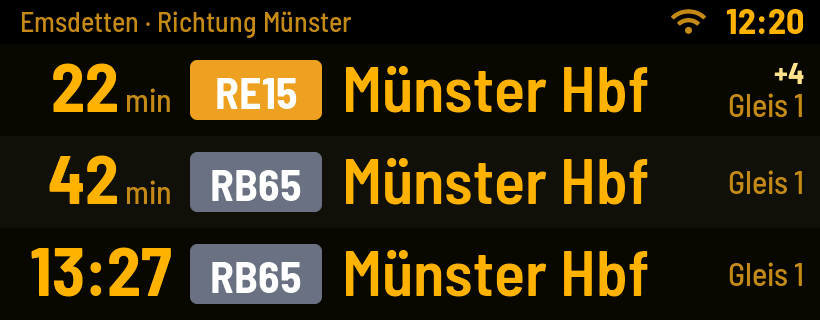
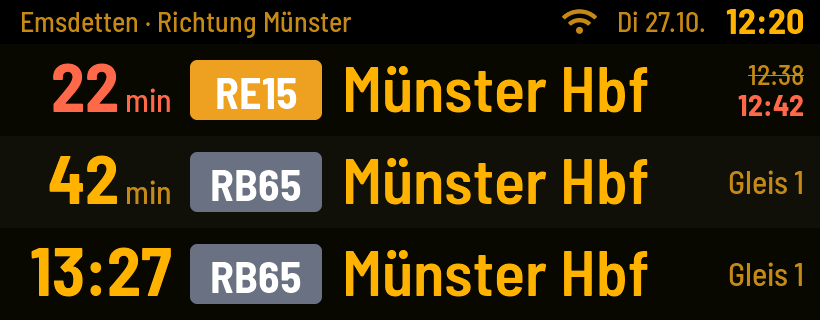
Display: Datum in der Kopfzeile, Haltestellenname wählbar, Verspätung deutlicher
- Kopfzeile: kurzes Datum neben der Uhr; Name groß (66 px Kopfzeile),
  normal (44 px) oder ausgeblendet (36 px, langes Datum links).
  Bei zwei Haltestellen bleibt der Name immer sichtbar.
- Verspätung ab +2 min (kLateMinutes): Minuten rot, rechts Planzeit
  durchgestrichen über der neuen Zeit statt „+4“ – das wurde als
  Aufschlag gelesen. Das Gleis entfällt in dieser Zeile (Platz).
- Simulator: Szenarien kopfzeile-gross/-aus, Screens neu gerendert.

Claude-Session: https://claude.ai/code/session_01Dcfs2LZYxWRDdZhDmCxRDe

Changed region(s): [[0.061, 0.1875, 0.2134, 0.375], [0.8841, 0.1875, 1.0, 0.375], [0.6707, 0.0312, 0.8841, 0.125]]

diff --git a/src/ui/ui.cpp b/src/ui/ui.cpp
@@ -21,11 +21,14 @@ using abf::NoteKind;
 using abf::RowView;
 using abf::Screen;
 using abf::SectionView;
+using abf::StopNameStyle;
 using abf::View;
 using abf::WifiMark;
 
 constexpr int32_t kMargin = 16;
 constexpr int32_t kHeader = 44;       // Kopfzeile Vollbild
+constexpr int32_t kHeaderLarge = 66;  // mit großem Haltestellennamen
+constexpr int32_t kHeaderBare = 36;   // ohne Haltestellennamen, nur Datum und Uhr
 constexpr int32_t kSplitHeader = 32;  // Kopfzeile je Haltestelle (geteilt)
 constexpr int32_t kBanner = 40;       // Hinweisleiste unten
 constexpr int32_t kRight = kWidth - kMargin;
@@ -37,7 +40,8 @@ struct Palette {
   uint32_t rowAlt;
   uint32_t text;
   uint32_t dim;        // Nebentexte
-  uint32_t accent;     // Verspätung, Symbole, Leiste
+  uint32_t accent;     // Symbole, Leiste
+  uint32_t late;       // Verspätung: Minuten und neue Abfahrtszeit
   uint32_t cancel;     // „fällt aus“
   uint32_t struck;     // durchgestrichene Abfahrt
   uint32_t bannerText;
@@ -47,9 +51,9 @@ struct Palette {
 
 // Dunkel: Nachtblau wie die Mockups. Nacht: Bernstein auf Schwarz, kaum Blauanteil.
 constexpr Palette kDark = {0x0b1a2e, 0x050f1e, 0x0b1a2e, 0x12243c, 0xf2f4f7, 0x9fb1c9,
-                           0xffb020, 0xff7a6b, 0x8193ab, 0x1a1306, 0x1e3858, 0xffffff};
+                           0xffb020, 0xff5a4a, 0xff7a6b, 0x8193ab, 0x1a1306, 0x1e3858, 0xffffff};
 constexpr Palette kNight = {0x000000, 0x000000, 0x090806, 0x15110b, 0xffb000, 0xc28a1c,
-                            0xffe08a, 0xff7a6b, 0x8f6a1e, 0x000000, 0x2a2010, 0xf2e2c0};
+                            0xffe08a, 0xff6a4a, 0xff7a6b, 0x8f6a1e, 0x000000, 0x2a2010, 0xf2e2c0};
 
 // Maße je Zeilen-Layout
 struct RowMetrics {
@@ -158,6 +162,10 @@ int32_t headerRight(lv_obj_t *scr, const View &v, const Palette &p, int32_t top,
   if (!v.clock.empty()) {
     x = placeRight(label(scr, v.clock, &ui_font_clock, p.text), v.clock, &ui_font_clock, x, clockBase) - 20;
   }
+  // Kurzes Datum neben der Uhr; ohne Haltestellennamen steht das lange Datum links (siehe header())
+  if (!v.date.empty() && v.header != StopNameStyle::Off) {
+    x = placeRight(label(scr, v.date, &ui_font_small, p.dim), v.date, &ui_font_small, x, smallBase) - 20;
+  }
   if (!icons) return x;
   if (!v.page.empty()) {
     x = placeRight(label(scr, v.page, &ui_font_small, p.dim), v.page, &ui_font_small, x, smallBase) - 18;
@@ -179,14 +187,27 @@ int32_t headerRight(lv_obj_t *scr, const View &v, const Palette &p, int32_t top,
   return x;
 }
 
+int32_t headerHeight(const View &v) {
+  switch (v.header) {
+    case StopNameStyle::Large: return kHeaderLarge;
+    case StopNameStyle::Off:   return kHeaderBare;
+    default:                   return kHeader;
+  }
+}
+
 void header(lv_obj_t *scr, const View &v, const Palette &p, const std::string &title, int32_t top, int32_t height,
             bool icons) {
   box(scr, 0, top, kWidth, height, p.header);
   const int32_t rightEdge = headerRight(scr, v, p, top, height, icons);
-  if (title.empty()) return;
-  lv_obj_t *t = label(scr, title, &ui_font_small, p.dim);
-  singleLine(t, &ui_font_small, std::max<int32_t>(40, rightEdge - 20 - (kMargin + 4)));
-  placeBaseline(t, &ui_font_small, kMargin + 4, top + (height + capHeight(&ui_font_small)) / 2);
+  // Links: Haltestelle (klein und grau oder groß und hell) bzw. bei ausgeblendetem Namen das lange Datum
+  const bool bare = v.header == StopNameStyle::Off;
+  const std::string &text = bare ? v.date : title;
+  if (text.empty()) return;
+  const bool large = v.header == StopNameStyle::Large && height >= kHeaderLarge;
+  const lv_font_t *font = large ? &ui_font_title : &ui_font_small;
+  lv_obj_t *t = label(scr, text, font, large ? p.text : p.dim);
+  singleLine(t, font, std::max<int32_t>(40, rightEdge - 20 - (kMargin + 4)));
+  placeBaseline(t, font, kMargin + 4, top + (height + capHeight(font)) / 2);
 }
 
 // --- Abfahrtszeile ---------------------------------------------------------
@@ -195,6 +216,7 @@ struct Line {
   std::string text;
   const lv_font_t *font;
   uint32_t color;
+  bool struck = false;
 };
 
 void row(lv_obj_t *scr, const RowView &r, const RowMetrics &m, const Palette &p, int32_t top, int32_t height,
@@ -203,13 +225,16 @@ void row(lv_obj_t *scr, const RowView &r, const RowMetrics &m, const Palette &p,
   const int32_t center = top + height / 2;
   const int32_t base = center + capHeight(m.dest) / 2;
   const uint32_t mainColor = r.cancelled ? p.struck : p.text;
+  const bool late = r.noteKind == NoteKind::Delay;
 
-  // Zeit: große Zahl + „min“ auf gemeinsamer Grundlinie, rechtsbündig
+  // Zeit: große Zahl + „min“ auf gemeinsamer Grundlinie, rechtsbündig. Rot bei Verspätung:
+  // die Minuten enthalten sie schon, nichts muss gerechnet werden.
   int32_t timeRight = m.timeRight;
   if (!r.unit.empty()) {
-    timeRight = placeRight(label(scr, r.unit, m.unit, r.cancelled ? p.struck : p.dim), r.unit, m.unit, timeRight, base) - 6;
+    const uint32_t unitColor = r.cancelled ? p.struck : late ? p.late : p.dim;
+    timeRight = placeRight(label(scr, r.unit, m.unit, unitColor), r.unit, m.unit, timeRight, base) - 6;
   }
-  lv_obj_t *time = label(scr, r.time, m.time, mainColor);
+  lv_obj_t *time = label(scr, r.time, m.time, late ? p.late : mainColor);
   placeRight(time, r.time, m.time, timeRight, base);
   if (r.cancelled) lv_obj_set_style_text_decor(time, LV_TEXT_DECOR_STRIKETHROUGH, 0);
 
@@ -220,14 +245,17 @@ void row(lv_obj_t *scr, const RowView &r, const RowMetrics &m, const Palette &p,
   lv_obj_t *bl = label(badge, r.line, m.badge, r.badgeFg);
   lv_obj_align(bl, LV_ALIGN_CENTER, 0, 1);
 
-  // Rechte Spalte: Verspätung/Ausfall über Gleis
+  // Rechte Spalte: Ausfall, Verspätung (Planzeit durchgestrichen über neuer Zeit) oder Gleis.
+  // Für Planzeit, neue Zeit und Gleis reicht die Zeilenhöhe nicht – bei Verspätung entfällt das Gleis.
   std::vector<Line> lines;
   if (r.noteKind == NoteKind::Cancelled) {
     lines.push_back({"fällt", &ui_font_bold, p.cancel});
     lines.push_back({"aus", &ui_font_bold, p.cancel});
-  } else {
-    if (!r.note.empty()) lines.push_back({r.note, &ui_font_bold, p.accent});
-    if (!r.track.empty()) lines.push_back({r.track, m.unit, p.dim});
+  } else if (late) {
+    lines.push_back({r.planned, &ui_font_small, p.dim, true});
+    lines.push_back({r.note, &ui_font_bold, p.late});
+  } else if (!r.track.empty()) {
+    lines.push_back({r.track, m.unit, p.dim});
   }
   int32_t rightW = 0;
   int32_t stackH = 0;
@@ -240,7 +268,9 @@ void row(lv_obj_t *scr, const RowView &r, const RowMetrics &m, const Palette &p,
   int32_t y = center - stackH / 2;
   for (const Line &l : lines) {
     y += capHeight(l.font);
-    placeRight(label(scr, l.text, l.font, l.color), l.text, l.font, kRight, y);
+    lv_obj_t *t = label(scr, l.text, l.font, l.color);
+    if (l.struck) lv_obj_set_style_text_decor(t, LV_TEXT_DECOR_STRIKETHROUGH, 0);
+    placeRight(t, l.text, l.font, kRight, y);
     y += kGap;
   }
 
@@ -263,7 +293,10 @@ void drawBoard(lv_obj_t *scr, const View &v, const Palette &p) {
       const SectionView &s = v.sections[i];
       const int32_t top = static_cast<int32_t>(i) * half;
       View head = v;
-      if (i > 0) head.clock.clear();
+      if (i > 0) {
+        head.clock.clear();
+        head.date.clear();
+      }
       header(scr, head, p, s.title, top, kSplitHeader, i == 0);
       if (s.rows.empty()) {
         box(scr, 0, top + kSplitHeader, kWidth, half - kSplitHeader, p.row);
@@ -280,16 +313,17 @@ void drawBoard(lv_obj_t *scr, const View &v, const Palette &p) {
     return;
   }
 
-  header(scr, v, p, v.title, 0, kHeader, true);
+  const int32_t headH = headerHeight(v);
+  header(scr, v, p, v.title, 0, headH, true);
   const RowMetrics &m = v.rows <= 3 ? kRows3 : kRows4;
   const int32_t bottom = v.banner.empty() ? kHeight : kHeight - kBanner;
   const int32_t slots = v.banner.empty() ? v.rows : v.rows - 1;
-  const int32_t rowH = (bottom - kHeader) / std::max<int32_t>(1, slots);
-  box(scr, 0, kHeader, kWidth, bottom - kHeader, p.row);
+  const int32_t rowH = (bottom - headH) / std::max<int32_t>(1, slots);
+  box(scr, 0, headH, kWidth, bottom - headH, p.row);
   if (!v.sections.empty()) {
     const SectionView &s = v.sections.front();
     for (size_t r = 0; r < s.rows.size(); ++r) {
-      row(scr, s.rows[r], m, p, kHeader + static_cast<int32_t>(r) * rowH, rowH, r % 2 == 1);
+      row(scr, s.rows[r], m, p, headH + static_cast<int32_t>(r) * rowH, rowH, r % 2 == 1);
     }
   }
   if (!v.banner.empty()) {
@@ -370,8 +404,9 @@ void centeredStack(lv_obj_t *scr, const Palette &p, const Symbol &sym, const std
 }
 
 void drawMessage(lv_obj_t *scr, const View &v, const Palette &p) {
-  header(scr, v, p, v.title, 0, kHeader, true);
-  centeredStack(scr, p, symbolFor(v.icon, p), v.heading, v.text, kHeader, kHeight, -1);
+  const int32_t headH = headerHeight(v);
+  header(scr, v, p, v.title, 0, headH, true);
+  centeredStack(scr, p, symbolFor(v.icon, p), v.heading, v.text, headH, kHeight, -1);
 }
 
 void drawUpdate(lv_obj_t *scr, const View &v, const Palette &p) {

diff --git a/test/test_dispmodel/test_main.cpp b/test/test_dispmodel/test_main.cpp
@@ -130,9 +130,19 @@ static void test_row_minutes_and_clock(void) {
 static void test_row_delay_and_cancel(void) {
   BoardRow r = row("RE15", "Münster Hbf", 22);
   r.delayMin = 4;
+  r.scheduled = r.when - 4 * 60;
   RowView v = makeRow(r, false);
-  TEST_ASSERT_EQUAL_STRING("+4", v.note.c_str());
+  TEST_ASSERT_EQUAL_STRING("22", v.time.c_str());          // Minuten enthalten die Verspätung
+  TEST_ASSERT_EQUAL_STRING("12:42", v.note.c_str());       // neue Abfahrtszeit
+  TEST_ASSERT_EQUAL_STRING("12:38", v.planned.c_str());    // Planzeit (durchgestrichen)
   TEST_ASSERT_EQUAL_INT(static_cast<int>(NoteKind::Delay), static_cast<int>(v.noteKind));
+
+  r.delayMin = kLateMinutes - 1;  // kleine Abweichung bleibt unauffällig
+  r.scheduled = r.when - r.delayMin * 60;
+  v = makeRow(r, false);
+  TEST_ASSERT_EQUAL_STRING("", v.note.c_str());
+  TEST_ASSERT_EQUAL_INT(static_cast<int>(NoteKind::None), static_cast<int>(v.noteKind));
+  r.delayMin = 4;
 
   r.realtime = false;  // Verspätung ohne Echtzeit ist bedeutungslos
   TEST_ASSERT_EQUAL_STRING("", makeRow(r, false).note.c_str());
@@ -315,6 +325,35 @@ static void test_view_night_off_and_update(void) {
   TEST_ASSERT_TRUE(v.backlight > 0);  // Update auch nachts sichtbar
 }
 
+static void test_view_header_style_and_date(void) {
+  ViewInputs in = boardInputs();
+  View v = buildView(in);
+  TEST_ASSERT_EQUAL_INT(static_cast<int>(StopNameStyle::Normal), static_cast<int>(v.header));
+  TEST_ASSERT_EQUAL_STRING("Di 27.10.", v.date.c_str());
+
+  in.cfg.stopName = StopNameStyle::Large;
+  v = buildView(in);
+  TEST_ASSERT_EQUAL_INT(static_cast<int>(StopNameStyle::Large), static_cast<int>(v.header));
+  TEST_ASSERT_EQUAL_STRING("Emsdetten, Bahnhof", v.title.c_str());
+
+  in.cfg.stopName = StopNameStyle::Off;
+  v = buildView(in);
+  TEST_ASSERT_EQUAL_INT(static_cast<int>(StopNameStyle::Off), static_cast<int>(v.header));
+  TEST_ASSERT_EQUAL_STRING("Dienstag, 27. Oktober", v.date.c_str());
+
+  // Zwei Haltestellen: Name bleibt sichtbar (auch im Wechsel)
+  in = boardInputs(2);
+  in.cfg.stopName = StopNameStyle::Off;
+  in.cfg.twoStops = TwoStopLayout::Alternate;
+  v = buildView(in);
+  TEST_ASSERT_EQUAL_INT(static_cast<int>(StopNameStyle::Normal), static_cast<int>(v.header));
+  TEST_ASSERT_EQUAL_STRING("Di 27.10.", v.date.c_str());
+
+  in = boardInputs();
+  in.timeValid = false;
+  TEST_ASSERT_EQUAL_STRING("", buildView(in).date.c_str());
+}
+
 static void test_view_equality_detects_changes(void) {
   ViewInputs in = boardInputs(1, 4);
   View a = buildView(in);
@@ -345,6 +384,7 @@ int main(int, char **) {
   RUN_TEST(test_view_fallback_only_without_data);
   RUN_TEST(test_view_messages);
   RUN_TEST(test_view_night_off_and_update);
+  RUN_TEST(test_view_header_style_and_date);
   RUN_TEST(test_view_equality_detects_changes);
   return UNITY_END();
 }

diff --git a/lib/dispmodel/src/display_model.cpp b/lib/dispmodel/src/display_model.cpp
@@ -1,5 +1,6 @@
 #include "display_model.h"
 
+#include <date_de.h>
 #include <stdio.h>
 #include <time.h>
 
@@ -36,7 +37,7 @@ Backlight backlightFor(const Config &cfg, bool timeValid, uint32_t minuteOfDay) 
 
 bool RowView::operator==(const RowView &o) const {
   return line == o.line && badgeBg == o.badgeBg && badgeFg == o.badgeFg && to == o.to && time == o.time &&
-         unit == o.unit && note == o.note && noteKind == o.noteKind && track == o.track &&
+         unit == o.unit && note == o.note && planned == o.planned && noteKind == o.noteKind && track == o.track &&
          cancelled == o.cancelled;
 }
 
@@ -45,8 +46,8 @@ bool SectionView::operator==(const SectionView &o) const {
 }
 
 bool View::operator==(const View &o) const {
-  return screen == o.screen && theme == o.theme && backlight == o.backlight && title == o.title &&
-         clock == o.clock && wifi == o.wifi && updateAvailable == o.updateAvailable && page == o.page &&
+  return screen == o.screen && theme == o.theme && backlight == o.backlight && header == o.header &&
+         title == o.title && clock == o.clock && date == o.date && wifi == o.wifi && updateAvailable == o.updateAvailable && page == o.page &&
          sections == o.sections && rows == o.rows && banner == o.banner && icon == o.icon &&
          heading == o.heading && text == o.text && steps == o.steps && qr == o.qr &&
          qrCaption == o.qrCaption && progress == o.progress;
@@ -122,8 +123,11 @@ RowView makeRow(const BoardRow &r, bool compactTrack) {
     } else {
       v.time = localHhMm(r.when);
     }
-    if (r.realtime && r.delayMin > 0) {
-      v.note = "+" + std::to_string(r.delayMin);
+    // Minuten enthalten die Verspätung schon. Statt „+4“ (wird als Aufschlag gelesen) neue Zeit und
+    // durchgestrichene Planzeit; kleine Abweichungen bleiben unauffällig.
+    if (r.realtime && r.delayMin >= kLateMinutes) {
+      v.note = localHhMm(r.when);
+      v.planned = localHhMm(r.scheduled);
       v.noteKind = NoteKind::Delay;
     }
   }
@@ -249,6 +253,14 @@ View buildView(const ViewInputs &in) {
   }
 
   v.clock = in.timeValid ? localHhMm(in.now) : "";
+  // Bei zwei Haltestellen muss erkennbar bleiben, welche gerade gezeigt wird
+  v.header = cfg.stopName == StopNameStyle::Off && cfg.stops.size() >= 2 ? StopNameStyle::Normal : cfg.stopName;
+  if (in.timeValid) {
+    const time_t t = static_cast<time_t>(in.now);
+    struct tm tm;
+    localtime_r(&t, &tm);
+    v.date = v.header == StopNameStyle::Off ? formatDateLong(tm) : formatDateShort(tm);
+  }
   v.wifi = online ? WifiMark::Ok : WifiMark::Off;
   v.updateAvailable = in.updateAvailable;
 

diff --git a/lib/dispmodel/src/display_model.h b/lib/dispmodel/src/display_model.h
@@ -53,7 +53,8 @@ struct RowView {
   std::string to;
   std::string time;      // "22", "jetzt", "13:27"
   std::string unit;      // "min" oder leer
-  std::string note;      // "+4", "fällt aus"
+  std::string note;      // neue Abfahrtszeit bei Verspätung ("12:42") bzw. "fällt aus"
+  std::string planned;   // Planzeit bei Verspätung ("12:38", wird durchgestrichen)
   NoteKind noteKind = NoteKind::None;
   std::string track;     // "Gleis 1", "Steig B" bzw. kurz "B"
   bool cancelled = false;
@@ -73,8 +74,10 @@ struct View {
   uint8_t backlight = 80;
 
   // Kopfzeile
+  StopNameStyle header = StopNameStyle::Normal;  // Off: Titel ausgeblendet, langes Datum links
   std::string title;           // Haltestelle bzw. Gerätename
   std::string clock;           // "12:20" oder leer
+  std::string date;            // "Di 27.10." bzw. bei Off "Dienstag, 27. Oktober"; leer ohne Uhrzeit
   WifiMark wifi = WifiMark::None;
   bool updateAvailable = false;
   std::string page;            // "1/2" bei Wechselanzeige
@@ -123,6 +126,7 @@ struct ViewInputs {
 constexpr uint32_t kAlternateSeconds = 10;    // Wechselanzeige: Sekunden je Haltestelle
 constexpr int32_t kClockFromMinutes = 60;      // ab hier Uhrzeit statt Minuten
 constexpr size_t kSplitRows = 2;               // geteilte Ansicht: Zeilen je Haltestelle
+constexpr int32_t kLateMinutes = 2;            // ab hier gilt eine Abfahrt als verspätet (rot)
 
 // Wie viele Abfahrten je Haltestelle aufbereitet werden müssen
 size_t rowsNeeded(const Config &cfg);

diff --git a/src/sim/sim_main.cpp b/src/sim/sim_main.cpp
@@ -141,6 +141,18 @@ std::vector<Scenario> scenarios() {
   night.cfg.theme = DisplayTheme::Night;
   out.push_back({"board-4-zeilen-nacht", night});
 
+  // Haltestellenname: groß bzw. ausgeblendet (nur Datum und Uhr)
+  ViewInputs large = in;
+  large.cfg.stopName = StopNameStyle::Large;
+  out.push_back({"kopfzeile-gross", large});
+  large.cfg.rows = 3;
+  out.push_back({"kopfzeile-gross-3-zeilen", large});
+  ViewInputs bare = in;
+  bare.cfg.stopName = StopNameStyle::Off;
+  out.push_back({"kopfzeile-aus", bare});
+  bare.cfg.theme = DisplayTheme::Night;
+  out.push_back({"kopfzeile-aus-nacht", bare});
+
   in = base();
   in.cfg.rows = 3;
   addStop(in, stop("Emsdetten · Richtung Münster", richtungMuenster()));

diff --git a/docs/screens/README.md b/docs/screens/README.md
@@ -13,6 +13,14 @@ Beispieldaten: Emsdetten, Bahnhof, Dienstag 12:20 Uhr. Szenarien in `src/sim/sim
 | ![4 Zeilen](board-4-zeilen.png) | ![4 Zeilen Nacht](board-4-zeilen-nacht.png) |
 | ![3 Zeilen](board-3-zeilen.png) | ![3 Zeilen Nacht](board-3-zeilen-nacht.png) |
 
+## Haltestellenname (Einstellung)
+| Groß | Ausblenden (nur Datum und Uhr) |
+|---|---|
+| ![Groß](kopfzeile-gross.png) | ![Aus](kopfzeile-aus.png) |
+| ![Groß, 3 Zeilen](kopfzeile-gross-3-zeilen.png) | ![Aus, Nacht](kopfzeile-aus-nacht.png) |
+
+Verspätung ab +2 min: Minuten rot (enthalten die Verspätung), rechts Planzeit durchgestrichen und neue Zeit.
+
 Lange Namen werden gekürzt, Badges wachsen bis 170 px:
 
 ![Lange Namen](lange-namen.png)
